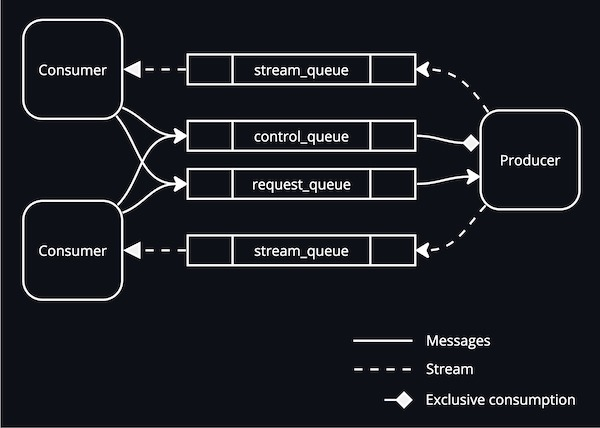
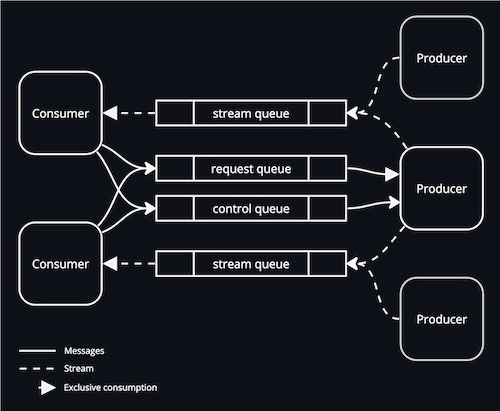
docs: update stream topology

diff --git a/readme.md b/readme.md
@@ -220,21 +220,21 @@ for await (const number of stream)
   console.log(number)
 ```
 
+The reply topology guarantees
+that the order of yielded values is [preserved](https://www.rabbitmq.com/queues.html#message-ordering),
+unless the [Sharded connection](#sharded-connection) is used [#72](https://github.com/toa-io/comq/issues/72).
+
 ### Stream topology
 
 <picture>
   <source media="(prefers-color-scheme: dark)" srcset="./docs/reply-stream-topology-dark.jpg">
-  <img alt="Reply topology" width="600" height="428" src="./docs/reply-stream-topology-light.jpg">
+  <img alt="Reply topology" width="500" height="411" src="./docs/reply-stream-topology-light.jpg">
 </picture>
 
-On the first call of the `IO.fetch` for each request queue, an exclusive queue for replies is asserted (a stream queue).
+On the first call of the `IO.fetch` (with any queue), an exclusive queue for replies is asserted (a stream queue).
 
 When the producer function of `IO.reply` returns a stream for the first time across all request queues,
 a control queue is asserted on the [Reply channel](#channels) using the [reply topology](#exchanges-and-queues).
-
-The reply topology guarantees
-that the order of yielded values is [preserved](https://www.rabbitmq.com/queues.html#message-ordering),
-unless the [Sharded connection](#sharded-connection) is used [#72](https://github.com/toa-io/comq/issues/72).
 
 ### Stream control
 
